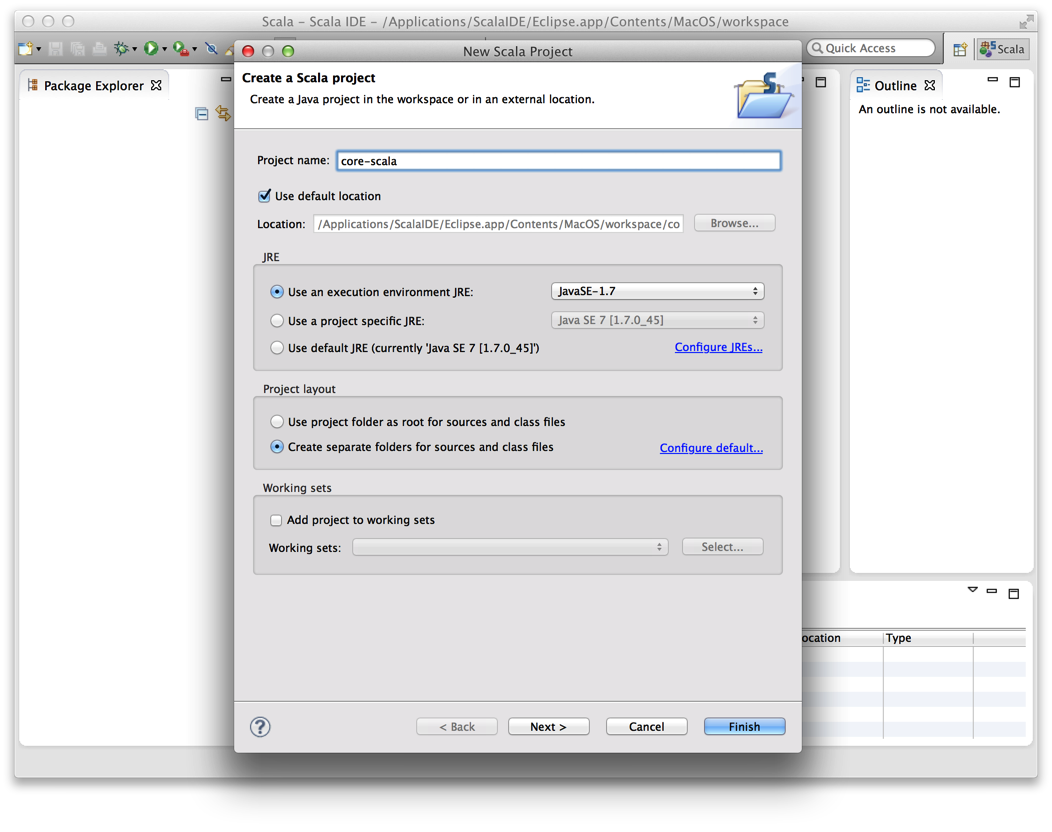
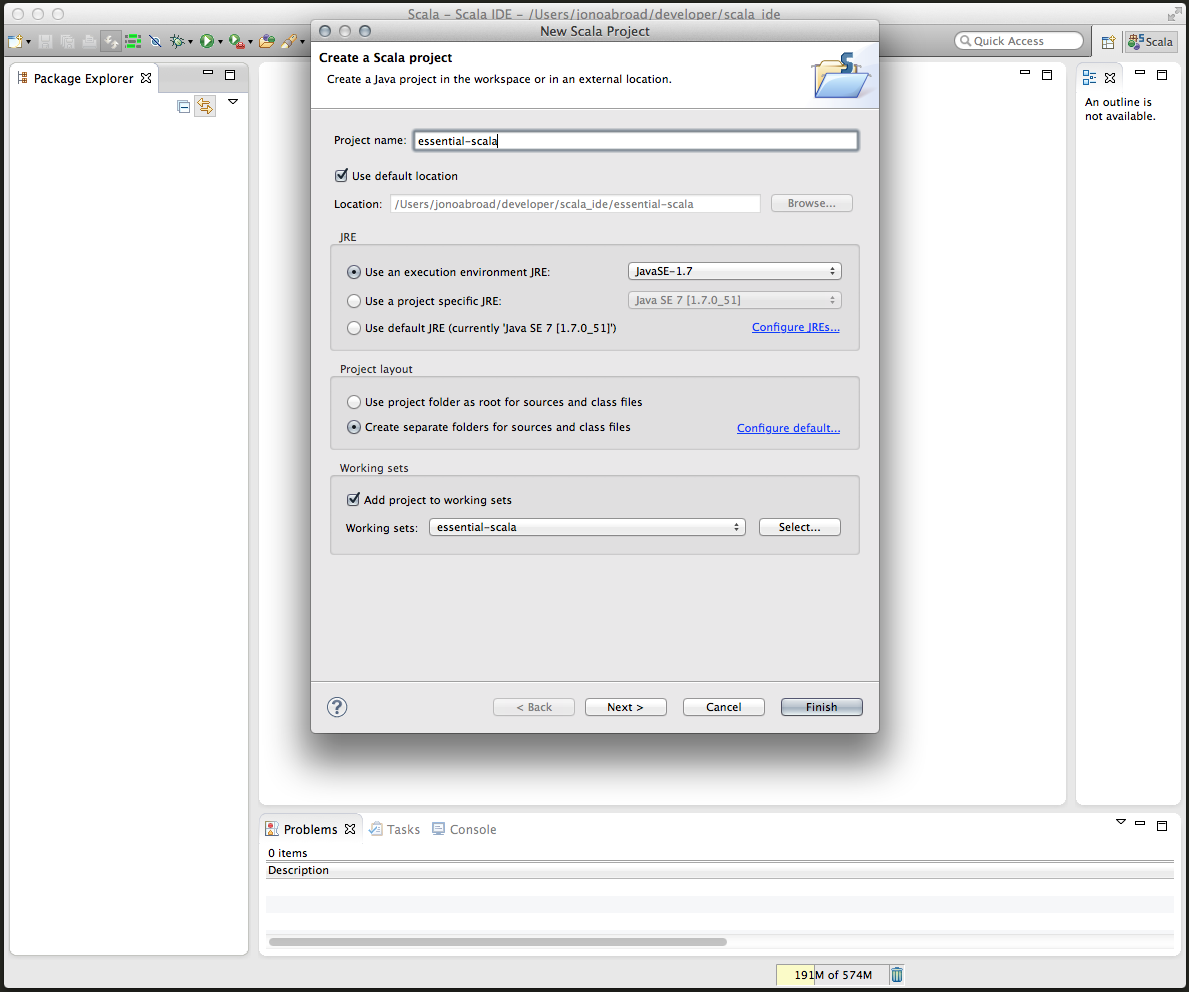
core-scala -> essential-scala

diff --git a/src/pages/getting-started/index.md b/src/pages/getting-started/index.md
@@ -31,7 +31,7 @@ Let's create a project for this course now. Select the **File menu** and choose 
 
 ![Scala IDE: Create a new Scala Project](scala-ide-new-project.png)
 
-Enter a **Project name** of `core-scala` and click **Finish**. The tree view on the left of your workspace should now contain an empty project:
+Enter a **Project name** of `essential-scala` and click **Finish**. The tree view on the left of your workspace should now contain an empty project:
 
 ![Scala IDE: Empty project](scala-ide-empty-project.png)
 
